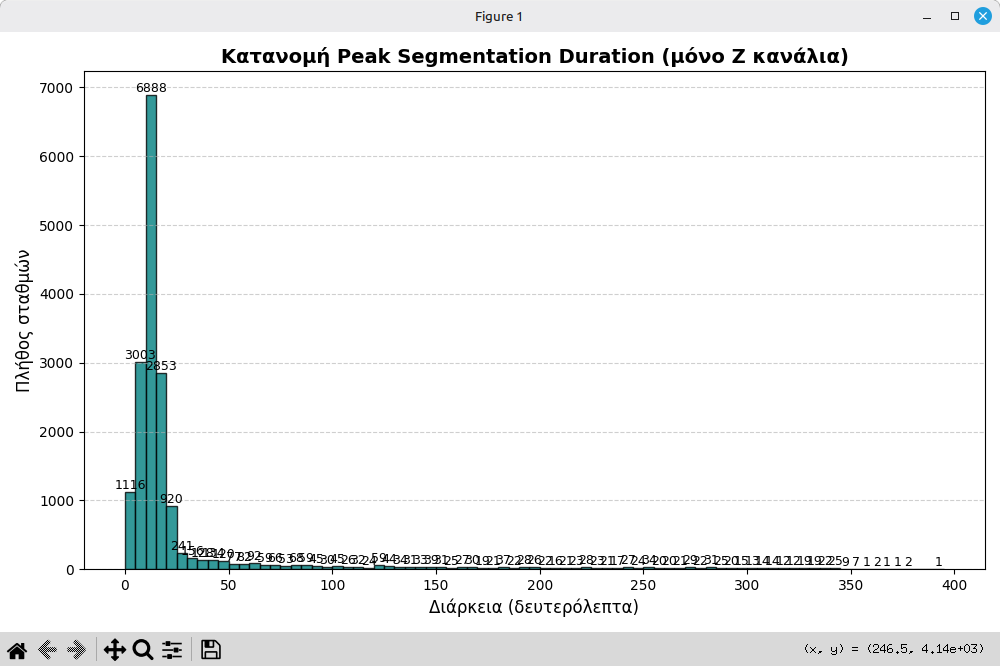
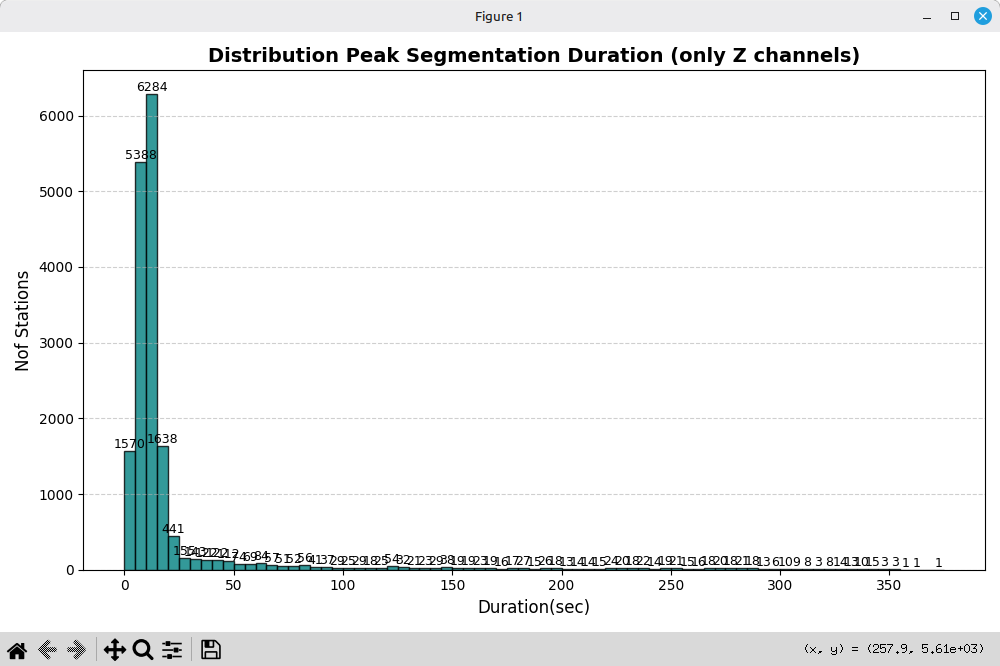
.

diff --git a/peak_segmentation.py b/peak_segmentation.py
@@ -447,7 +447,7 @@ def plot_peak_segmentation_duration_distribution(bin_size: float = 5.0):
     from main import LOG_DIR
 
     # --- Ανάγνωση αρχείου ---
-    json_path = os.path.join(LOG_DIR, "boundaries.json")
+    json_path = os.path.join(LOG_DIR, "PS_boundaries.json")
     if not os.path.exists(json_path):
         print(f"❌ Δεν βρέθηκε το αρχείο: {json_path}")
         return
@@ -457,6 +457,8 @@ def plot_peak_segmentation_duration_distribution(bin_size: float = 5.0):
 
     # --- Διασχίζουμε τη δομή: έτος → event → σταθμό → κανάλι ---
     for year, events in data.items():
+        if year == "total_nof_stations":
+            continue
         for event_name, stations in events.items():
             for station_name, channels in stations.items():
                 if not isinstance(channels, dict):
@@ -469,7 +471,7 @@ def plot_peak_segmentation_duration_distribution(bin_size: float = 5.0):
                     if not ch_name.endswith("Z"):
                         continue
 
-                    dur = ch_info.get("duration_of_peak_segment")
+                    dur = ch_info.get("peak_segment_duration_time")
                     if dur is None:
                         continue
 
@@ -521,7 +523,7 @@ def plot_clean_event_duration_distribution(bin_size: float = 5.0):
     from main import LOG_DIR
 
     # --- Ανάγνωση αρχείου ---
-    json_path = os.path.join(LOG_DIR, "boundaries.json")
+    json_path = os.path.join(LOG_DIR, "PS_boundaries.json")
     if not os.path.exists(json_path):
         print(f"❌ Δεν βρέθηκε το αρχείο: {json_path}")
         return
@@ -546,7 +548,7 @@ def plot_clean_event_duration_distribution(bin_size: float = 5.0):
                     if not ch_name.endswith("Z"):
                         continue
 
-                    dur = ch_info.get("event_duration_time")
+                    dur = ch_info.get("clean_event_duration_time")
                     if dur is None:
                         continue
 
@@ -598,7 +600,7 @@ def plot_snr_distribution(bin_size: float = 3.0):
     from main import LOG_DIR
 
     # --- Διαδρομή αρχείου ---
-    json_path = os.path.join(LOG_DIR, "boundaries.json")
+    json_path = os.path.join(LOG_DIR, "PS_boundaries.json")
 
     # --- Έλεγχος ύπαρξης ---
     if not os.path.exists(json_path):
@@ -787,8 +789,8 @@ def count_nof_training_stations(
 
 # ==========================================================
 if __name__ == "__main__":
-    find_boundaries()
+    #find_boundaries()
     #plot_clean_event_duration_distribution()
     #plot_peak_segmentation_duration_distribution()
-    #plot_snr_distribution()
+    plot_snr_distribution()
     #create_peak_segmentation_files()

diff --git a/README.md b/README.md
@@ -395,9 +395,16 @@ consistent dataset for downstream processing pipelines such as GreensonNet.
 ![img.png](images/signal_with_boundaries.png)
 
 After computing the segmentation boundaries for all stations, the next step is to analyze the distribution of the 
-extracted parameters. First, we compute the scatter plot of the peak segmentation duration in order to visualize where 
-the peak segment predominantly lies across all stations. This plot provides an overview of how long the strongest part 
-of the signal lasts and whether the peak segment durations cluster around specific values.
+extracted parameters.
+In the first stage, we generate the distribution — specifically, the histogram — of the Clean Event Duration Time for 
+all stations. This allows us to identify whether there are stations whose clean event duration falls below a certain 
+threshold, which determines whether they are eligible for inclusion in the Training Set.
+
+![img.png](images/clean_event_duration_distribution.png)
+
+We compute the scatter plot of the peak segmentation duration in order to visualize where the peak segment predominantly 
+lies across all stations. This plot provides an overview of how long the strongest part of the signal lasts and whether 
+the peak segment durations cluster around specific values.
 
 ![img.png](images/peak_segmentation_duration_distribution.png)
 
